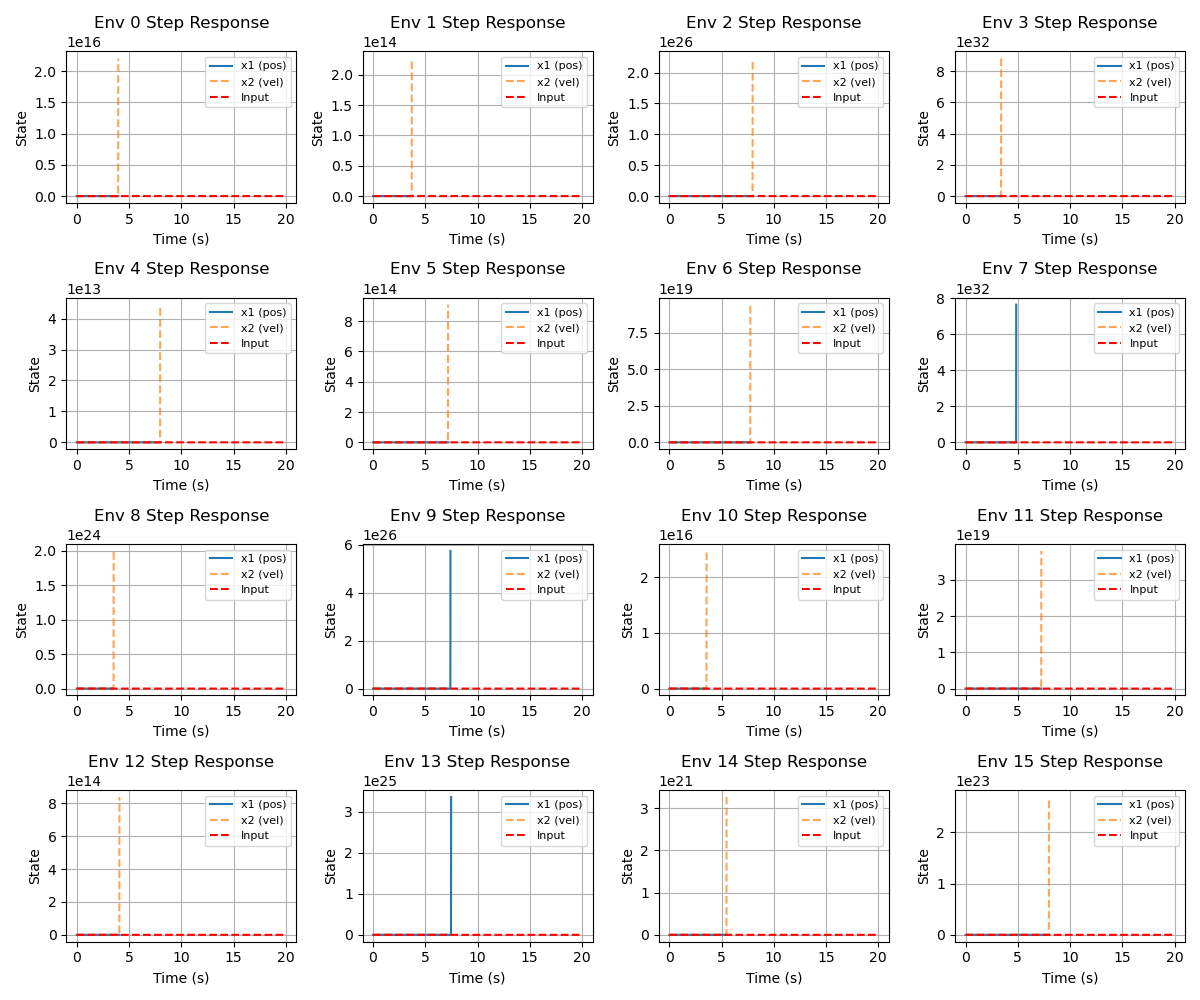
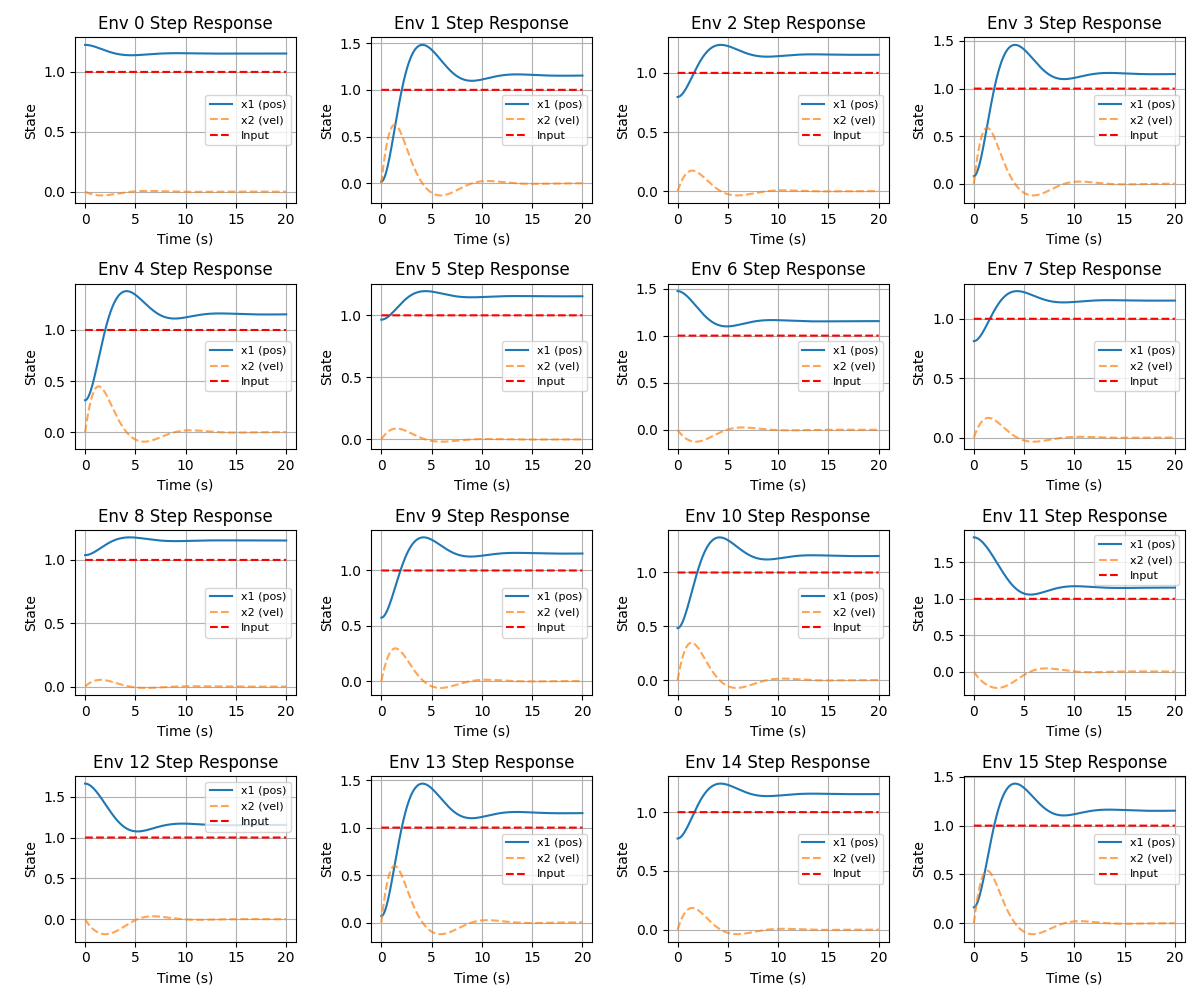
Refactor nonlinear plant simulation for improved accuracy and clarity (#6)
* Refactor initial state setup in nonlinear_plant_step_response.py and improve string representation in PlantCfg

* Update parameters in nonlinear_plant_step_response.py for improved simulation accuracy and adjust alpha coefficient; update corresponding image.

* Refactor batch dimension handling in StateSpaceSystem and StateSpaceSystemCfg for improved clarity and consistency

* Enhance NonlinearSystem and NonlinearSystemCfg to support batch dimension handling and improve parameter validation

Changed region(s): [[0.0, 0.0, 0.9867, 0.992], [0.2467, 0.837, 0.2775, 0.868]]

diff --git a/torchcontrol/plants/nonlinear_system_cfg.py b/torchcontrol/plants/nonlinear_system_cfg.py
@@ -5,7 +5,6 @@ Configuration for NonlinearSystem plant (general nonlinear system).
 from __future__ import annotations
 
 import torch
-from dataclasses import fields
 from torchcontrol.plants.plant_cfg import PlantCfg, configclass
 from .nonlinear_system import NonlinearSystem
 
@@ -27,18 +26,21 @@ class Parameters:
     params.k  # tensor([0.8, 0.9, 1.0, 1.1, 1.2, 1.3, 1.4, 1.5])
     params.c  # tensor([0.5, 0.6, 0.7, 0.8, 0.9, 1.0, 1.1, 1.2])
     params.alpha  # tensor([0.1, 0.2, 0.3, 0.4, 0.5, 0.6, 0.7, 0.8])
-        ```
+    ```
     """
+    
+    force_batch: bool = False
+    """If True, add a batch dimension to the parameters, even if the first dimension is equal to num_envs."""
     
     def __init__(self, **kwargs):
         for k, v in kwargs.items():
             v = torch.as_tensor(v, dtype=torch.float32)
-            # TODO: the parameter may be a 2D matrix
-            assert v.dim() == 1 or v.dim() == 0, f"Parameter {k} must be a 1D tensor or a scalar, but got {v.dim()}D"
+            # Only allow scalar, 1D, 2D or 3D tensors, and 3D tensors must have first dimension equal to num_envs
+            assert v.dim() <= 3, f"Parameter {k} must be a scalar, 1D, 2D or 3D tensor, but got {v.shape}"
             setattr(self, k, v)
     
     def __repr__(self):
-        return f"Parameters({', '.join(f'{k}' for k in self.__dict__.keys())})"
+        return f"Parameters({', '.join(f'{k}' for k in self.__dict__.keys())}, force_batch={self.force_batch})"
 
 @configclass
 class NonlinearSystemCfg(PlantCfg):
@@ -84,13 +86,19 @@ class NonlinearSystemCfg(PlantCfg):
             assert callable(self.output), "output must be a callable function if provided"
         else:
             self.output = lambda x, u, t, params: x # all state feedback if output is None
-        # every parameter must be a 1D tensor with shape (num_envs,) or a scalar
+        # Parameters shape assert
         if self.params is None:
             self.params = Parameters()
         else:
+            # If force_batch is true, add a batch dimension to the parameters when there is a confused shape
+            force_batch = self.params.force_batch
             for k, v in self.params.__dict__.items():
-                if isinstance(v, torch.Tensor) and v.dim() == 1:
-                    # TODO: the parameter may be a 2D matrix
-                    assert v.shape[0] == self.num_envs, f"Parameter {k} must have shape (num_envs,) but got {v.shape}"
+                if not isinstance(v, torch.Tensor):
+                    continue
+                # Only allow scalar, 1D, 2D or 3D tensors, and 3D tensors must have first dimension equal to num_envs
+                assert v.dim() <= 3, f"Parameter '{k}' must be a scalar, 1D, 2D or 3D tensor, but got {v.shape}"
+                # 3D tensors must have first dimension equal to num_envs
+                if v.dim() == 3:
+                    assert v.shape[0] == self.num_envs, f"Parameter '{k}' with dim=3 must have shape[0]==num_envs, got {v.shape}"
         # Call the parent post_init
         super().__post_init__()

diff --git a/torchcontrol/plants/state_space_system_cfg.py b/torchcontrol/plants/state_space_system_cfg.py
@@ -36,16 +36,23 @@ class StateSpaceSystemCfg(PlantCfg):
         self.state_dim = self.A.shape[-2]
         self.action_dim = self.B.shape[-1]
         # Dimension checks
-        if self.A.dim() == 3:
-            # Check for batch dimension
-            assert self.A.shape[0] == self.num_envs, f"A must have first dimension {self.num_envs}, got {self.A.shape[0]}"
-            assert self.B.shape[0] == self.num_envs, f"B must have first dimension {self.num_envs}, got {self.B.shape[0]}"
-            assert self.C.shape[0] == self.num_envs, f"C must have first dimension {self.num_envs}, got {self.C.shape[0]}"
-            assert self.D.shape[0] == self.num_envs, f"D must have first dimension {self.num_envs}, got {self.D.shape[0]}"
+        assert self.A.dim() == 2 or self.A.dim() == 3, f"A must be 2D or 3D, got {self.A.shape}"
+        assert self.B.dim() == 2 or self.B.dim() == 3, f"B must be 2D or 3D, got {self.B.shape}"
+        assert self.C.dim() == 2 or self.C.dim() == 3, f"C must be 2D or 3D, got {self.C.shape}"
+        assert self.D.dim() == 2 or self.D.dim() == 3, f"D must be 2D or 3D, got {self.D.shape}"
         # Check for matrix dimensions
         assert self.A.shape[-2] == self.A.shape[-1], f"A must be square, got {self.A.shape}"
         assert self.A.shape[-2] == self.B.shape[-2], f"A rows ({self.A.shape[-2]}) must match B rows ({self.B.shape[-2]})"
         assert self.A.shape[-1] == self.C.shape[-1], f"A cols ({self.A.shape[-1]}) must match C cols ({self.C.shape[-1]})"
         assert self.C.shape[-2] == self.D.shape[-2], f"C rows ({self.C.shape[-2]}) must match D rows ({self.D.shape[-2]})"
+        # Check for batch dimension
+        if self.A.dim() == 3:
+            assert self.A.shape[0] == self.num_envs, f"A must have first dimension {self.num_envs} for batch, got {self.A.shape[0]}"
+        if self.B.dim() == 3:
+            assert self.B.shape[0] == self.num_envs, f"B must have first dimension {self.num_envs} for batch, got {self.B.shape[0]}"
+        if self.C.dim() == 3:
+            assert self.C.shape[0] == self.num_envs, f"C must have first dimension {self.num_envs} for batch, got {self.C.shape[0]}"
+        if self.D.dim() == 3:
+            assert self.D.shape[0] == self.num_envs, f"D must have first dimension {self.num_envs} for batch, got {self.D.shape[0]}"
         # Call parent class post_init
         super().__post_init__()

diff --git a/torchcontrol/plants/nonlinear_system.py b/torchcontrol/plants/nonlinear_system.py
@@ -4,7 +4,6 @@ NonlinearSystem plant: general nonlinear system using user-defined dynamics and 
 """
 from __future__ import annotations
 
-from dataclasses import fields
 from typing import TYPE_CHECKING
 from .plant_base import PlantBase
 
@@ -22,9 +21,17 @@ class NonlinearSystem(PlantBase):
     def __init__(self, cfg: NonlinearSystemCfg):
         super().__init__(cfg)
         self.params = cfg.params
-        # Move parameters to the device
+        # Move parameters to the device and add batch dimension if needed
         for k, v in self.params.__dict__.items():
-            setattr(self.params, k, v.to(self.device))
+            v = v.to(self.device) # Move to device
+            if v.dim() in [1, 2]:
+                if v.shape[0] == self.num_envs:
+                    if self.params.force_batch:
+                        v = v.repeat(self.num_envs, *([1] * v.dim()))
+                else:
+                    v = v.repeat(self.num_envs,  *([1] * v.dim()))
+            # Set the parameter in the params object
+            setattr(self.params, k, v)
         self.reset()
 
     def forward(self, x, u, t):

diff --git a/examples/nonlinear_plant_step_response.py b/examples/nonlinear_plant_step_response.py
@@ -34,16 +34,16 @@ if __name__ == "__main__":
     device = "cuda" if torch.cuda.is_available() else "cpu"
 
     # Parameters (same for all envs, but could be different)
-    k = torch.full((num_envs,), 1.0)
-    c = torch.full((num_envs,), 0.7)
-    alpha = torch.full((num_envs,), 0.2)
+    k = torch.full((num_envs,), 1.0) # Spring constant
+    c = torch.full((num_envs,), 0.7) # Damping coefficient
+    alpha = torch.full((num_envs,), 0.1) # Nonlinear coefficient, should be less than 0.15
     params = Parameters(k=k, c=c, alpha=alpha)
 
     # Initial states: random in [0,2] for x1, zero for x2
     torch.manual_seed(42)
-    x1_0 = torch.rand(num_envs) * 2
-    x2_0 = torch.zeros(num_envs)
-    initial_states = torch.stack([x1_0, x2_0], dim=1)
+    x1_0 = torch.rand(num_envs, device=device) * 2
+    x2_0 = torch.zeros(num_envs, device=device)
+    initial_states = torch.stack([x1_0, x2_0], dim=1)  # [num_envs, state_dim]
 
     # Config
     cfg = NonlinearSystemCfg(

diff --git a/torchcontrol/plants/state_space_system.py b/torchcontrol/plants/state_space_system.py
@@ -26,12 +26,12 @@ class StateSpaceSystem(PlantBase):
         self.B = cfg.B.to(self.device)
         self.C = cfg.C.to(self.device)
         self.D = cfg.D.to(self.device)
-        if self.A.dim() == 2:
-            # Add batch dimension if not present
-            self.A = self.A.repeat(self.num_envs, 1, 1)
-            self.B = self.B.repeat(self.num_envs, 1, 1)
-            self.C = self.C.repeat(self.num_envs, 1, 1)
-            self.D = self.D.repeat(self.num_envs, 1, 1)
+        # Add batch dimension if not present
+        self.A = self.A.repeat(self.num_envs, 1, 1) if self.A.dim() == 2 else self.A
+        self.B = self.B.repeat(self.num_envs, 1, 1) if self.B.dim() == 2 else self.B
+        self.C = self.C.repeat(self.num_envs, 1, 1) if self.C.dim() == 2 else self.C
+        self.D = self.D.repeat(self.num_envs, 1, 1) if self.D.dim() == 2 else self.D
+        # Reset state to initial state
         self.reset()
 
     def forward(self, x, u, t):

diff --git a/torchcontrol/plants/plant_cfg.py b/torchcontrol/plants/plant_cfg.py
@@ -26,7 +26,13 @@ class PlantCfg(SystemCfg):
     
     def __repr__(self):
         """String representation of the configuration."""
-        return f"{super().__repr__()}initial_state: {"manually set" if self.initial_state.count_nonzero().item() != 0 else "all zero"}\node_method: {self.ode_method}\node_options: {self.ode_options}\n"
+        initial_state_description = "manually set" if self.initial_state.count_nonzero().item() != 0 else "all zero"
+        return (
+            f"{super().__repr__()}"
+            f"initial_state: {initial_state_description}\n"
+            f"ode_method: {self.ode_method}\n"
+            f"ode_options: {self.ode_options}\n"
+        )
     
     def __post_init__(self):
         """Post-initialization"""
